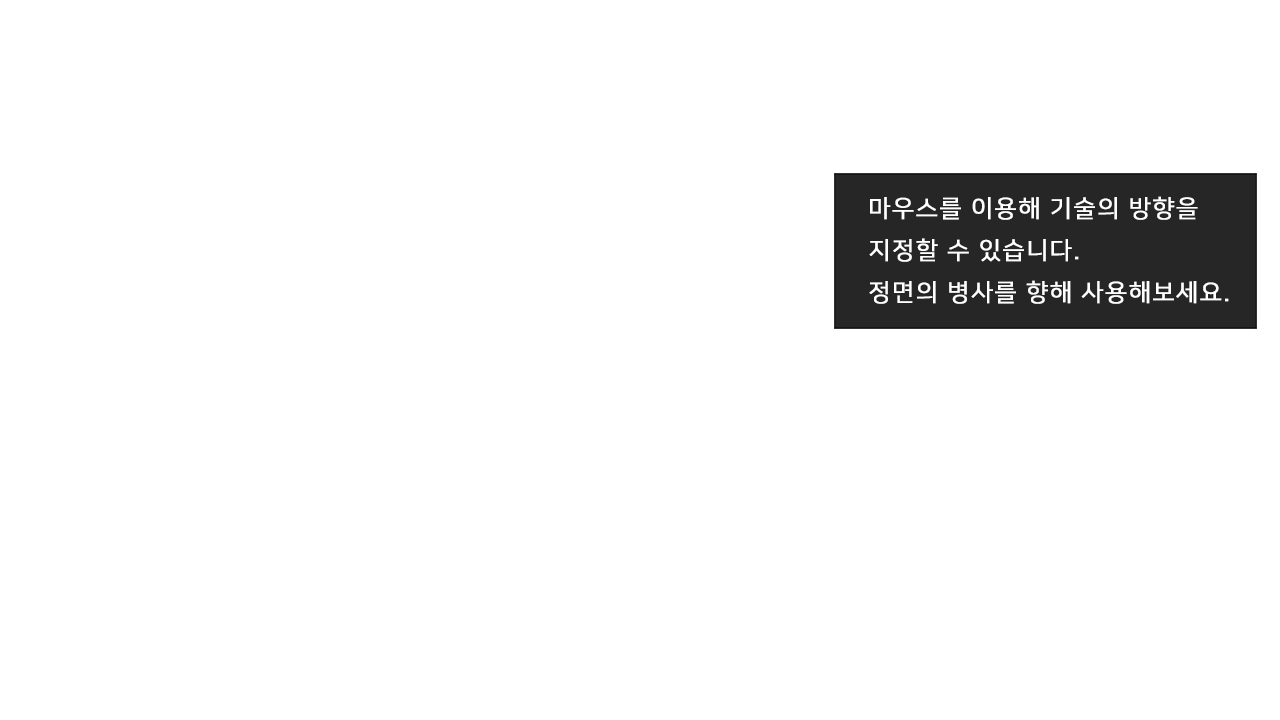
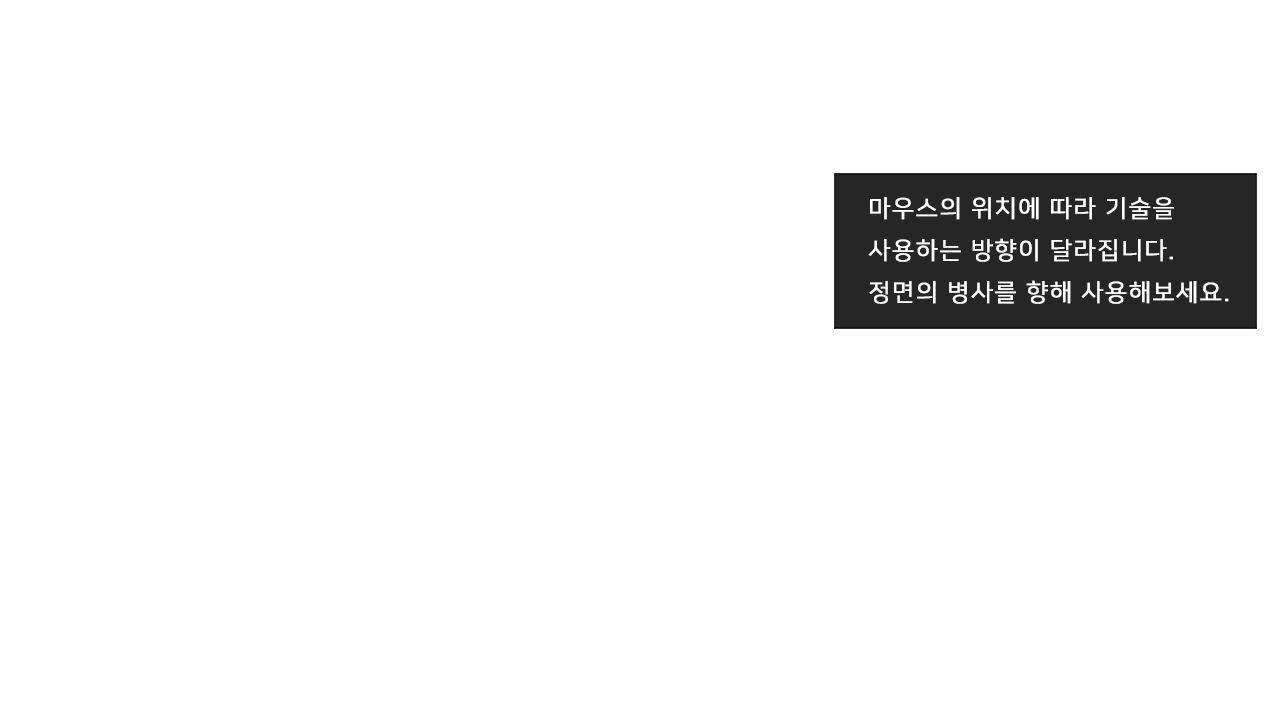
튜토리얼1 이미지 오류 교체 & 전투 중 Delete 키 누르면 자동패배

Changed region(s): [[0.7188, 0.275, 0.9375, 0.3056], [0.6875, 0.3361, 0.9062, 0.3667]]

diff --git a/Assets/BattleTriggerManager.cs b/Assets/BattleTriggerManager.cs
@@ -58,7 +58,7 @@ public class BattleTriggerManager : MonoBehaviour {
 				BattleData.rewardPoint += trigger.reward;
 			else if (trigger.resultType == TrigResultType.Lose) {
 				Debug.Log ("Mission FAIL : " + trigger.korName);
-				sceneLoader.LoadNextDialogueScene ("Scene_Lose" + SceneData.stageNumber);
+				LoadLoseScene ();
 				//sceneLoader.LoadNextDialogueScene ("Title");
 			}
 		}else{
@@ -70,6 +70,9 @@ public class BattleTriggerManager : MonoBehaviour {
 		resultPanel.gameObject.SetActive(true);
 		resultPanel.Activate();
 		resultPanel.UpdatePanel(0);
+	}
+	public void LoadLoseScene(){
+		sceneLoader.LoadNextDialogueScene ("Scene_Lose" + SceneData.stageNumber);
 	}
 
 	void Awake(){

diff --git a/Assets/Scripts/Battle/BattleManager.cs b/Assets/Scripts/Battle/BattleManager.cs
@@ -487,6 +487,10 @@ public class BattleManager : MonoBehaviour{
 			BattleTriggerManager Checker = FindObjectOfType<BattleTriggerManager>();
 			Checker.InitializeResultPanel ();
 		}
+		if (Input.GetKeyDown(KeyCode.Delete)){
+			BattleTriggerManager Checker = FindObjectOfType<BattleTriggerManager>();
+			Checker.LoadLoseScene ();
+		}
 
 		if(Input.GetKeyDown(KeyCode.B))
 			SceneManager.LoadScene("BattleReady");
